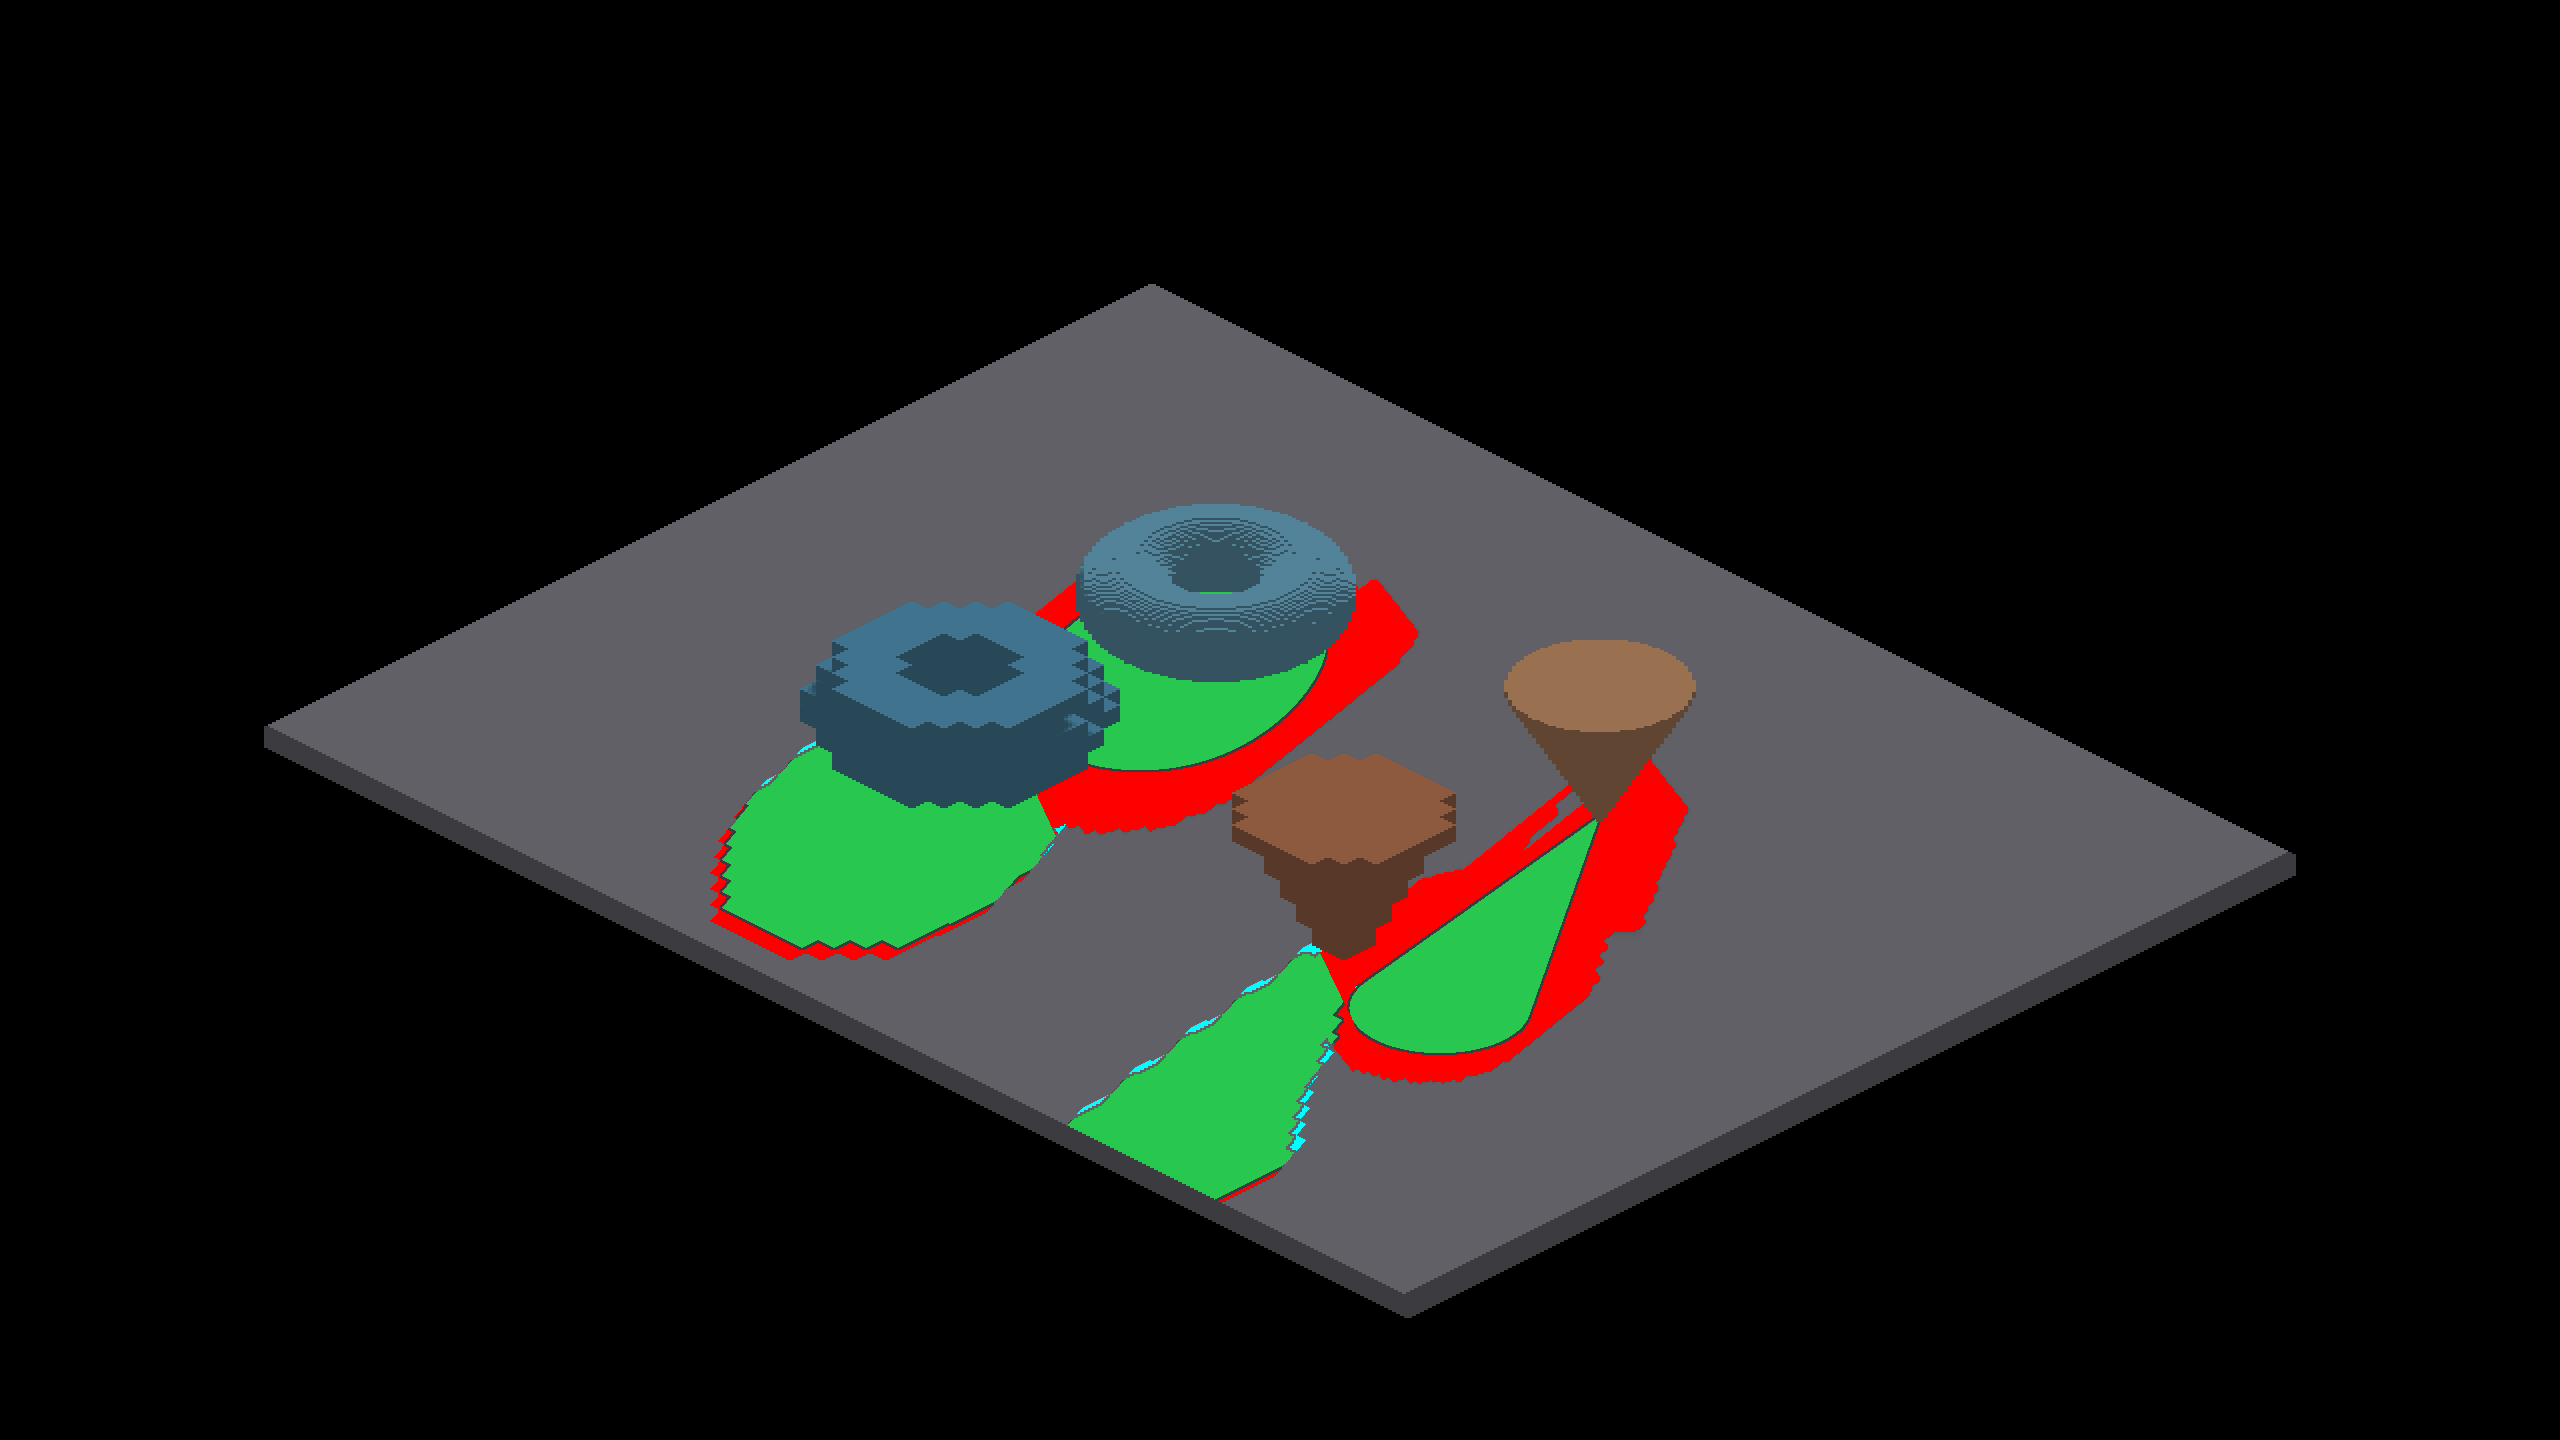
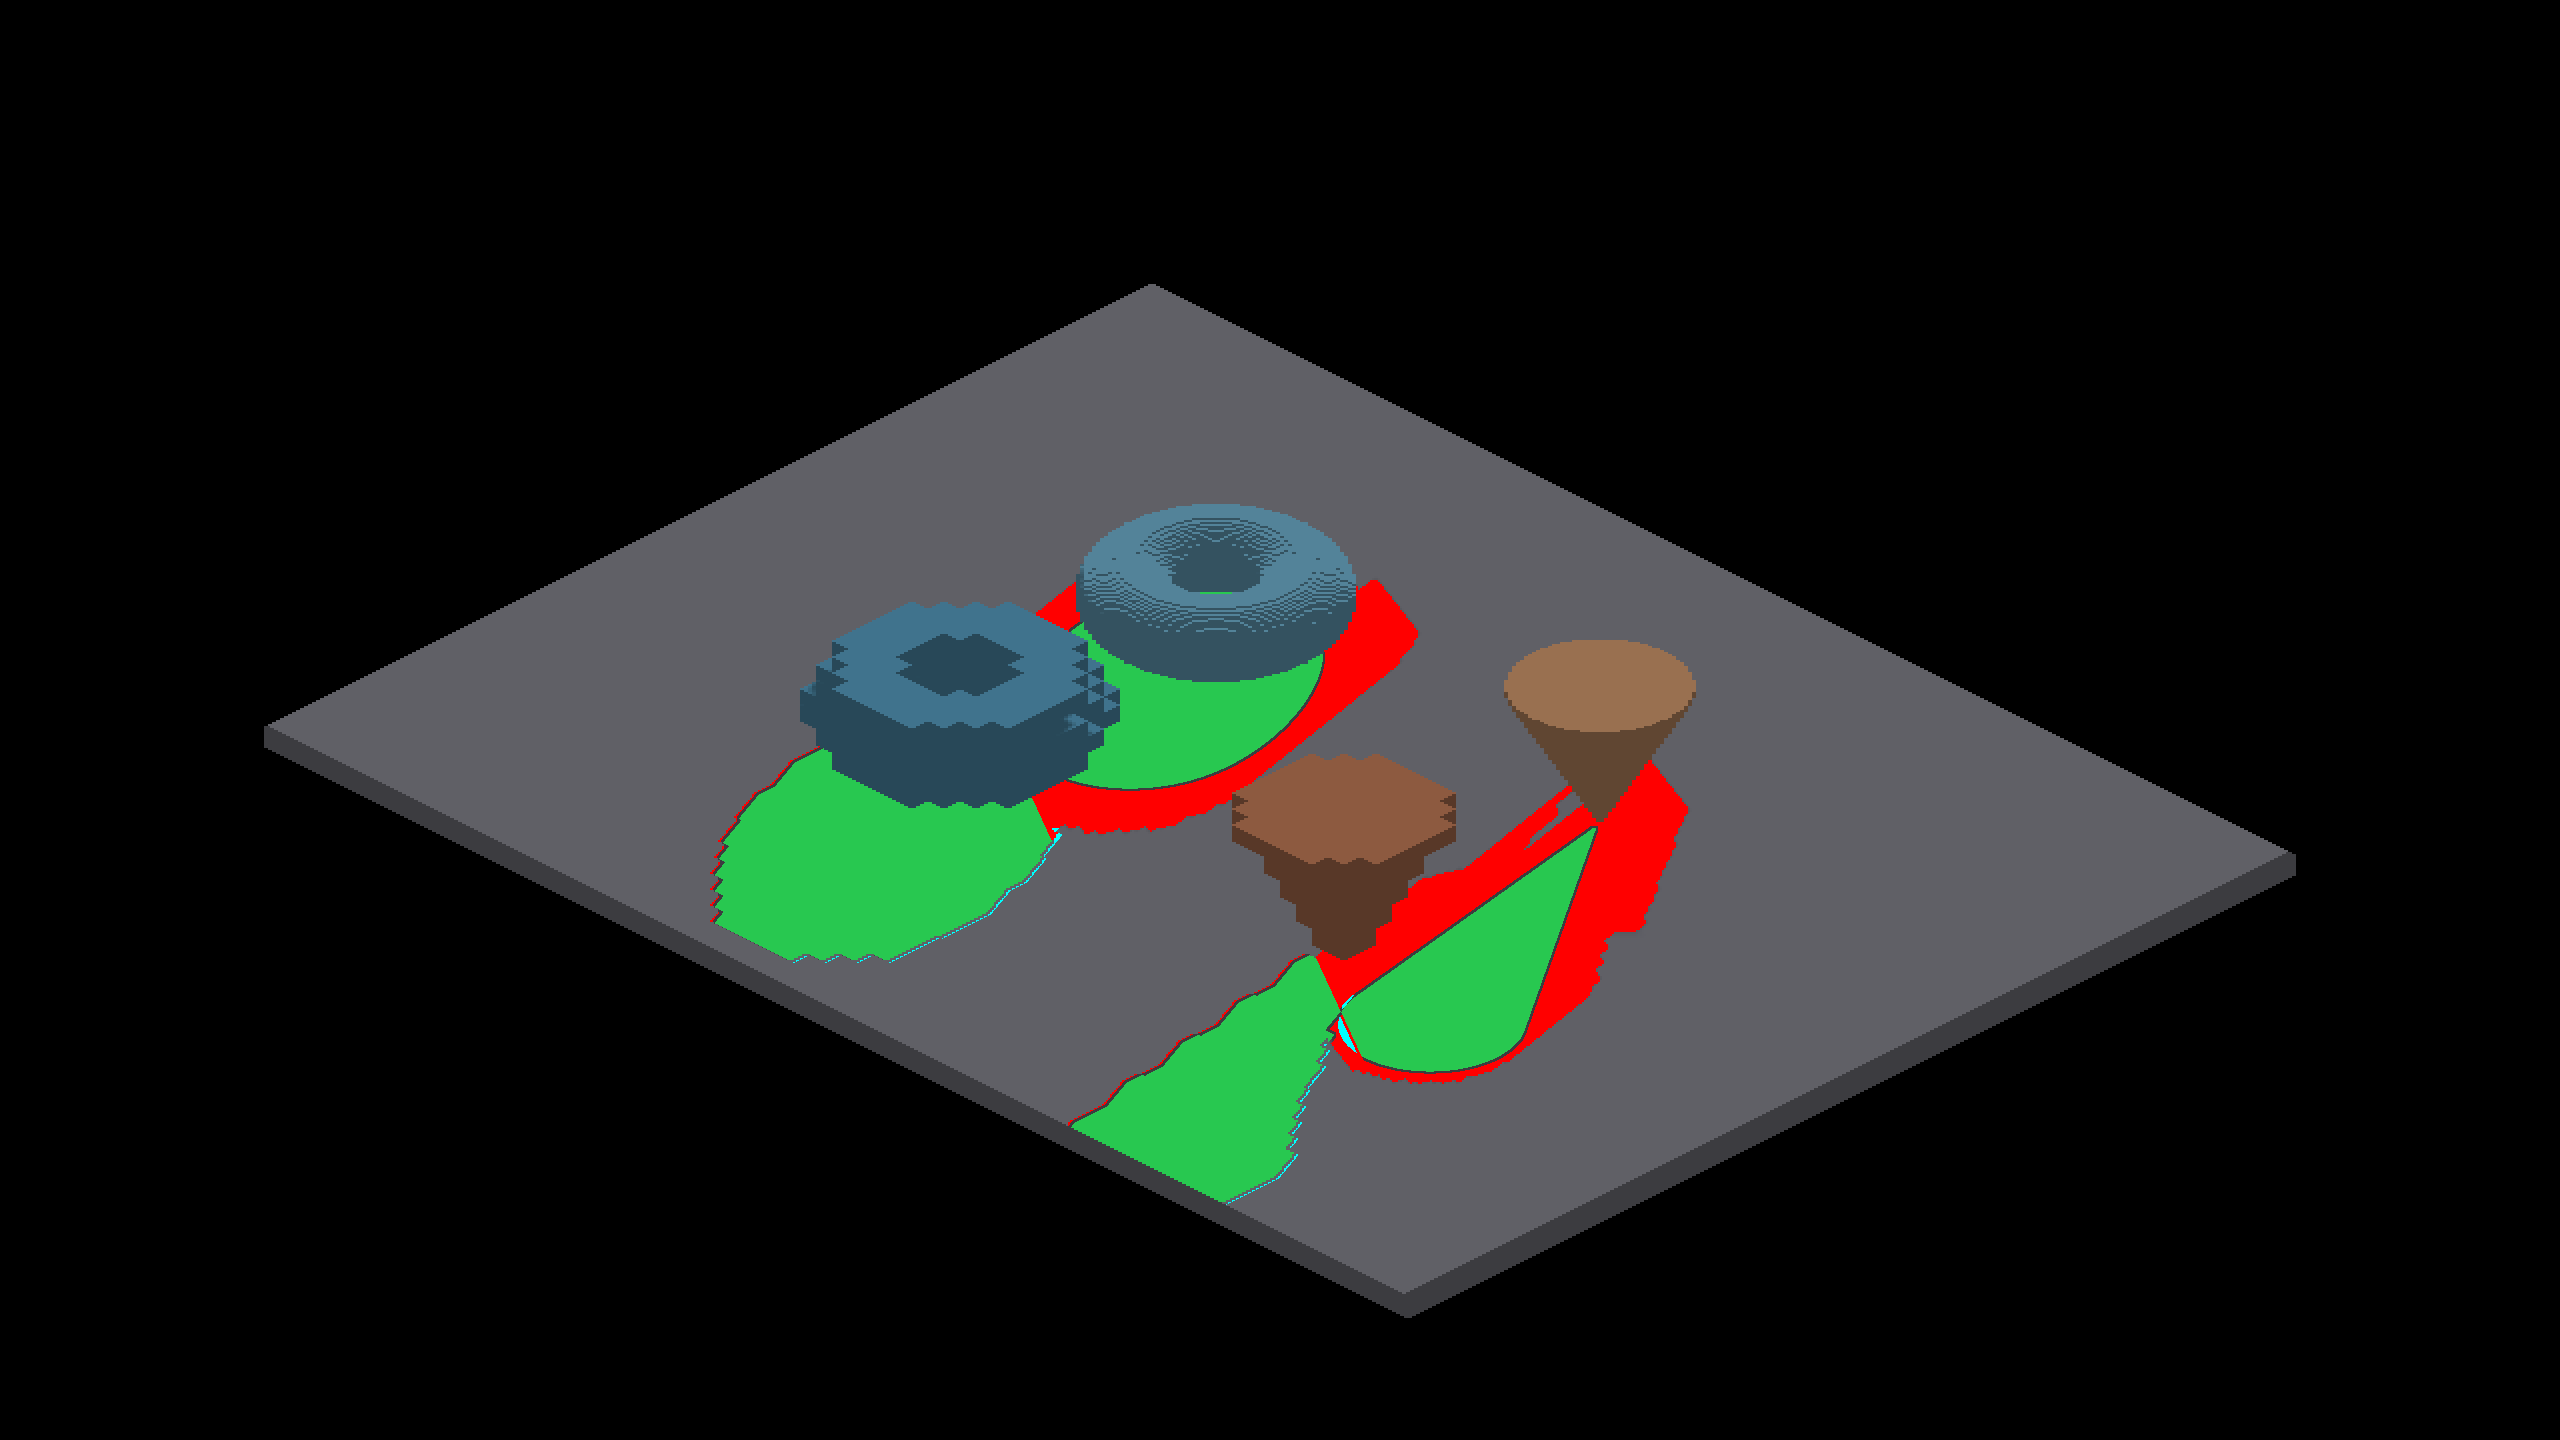
docs: refresh shadow footprint evidence

diff --git a/docs/pr-screenshots/claude/4274-shadow-footprint-accuracy/README.md b/docs/pr-screenshots/claude/4274-shadow-footprint-accuracy/README.md
@@ -7,14 +7,15 @@ and each fixed camera pose is captured once with sun shadows and once with
 capture, so caster pixels and the background cannot enter the observed mask.
 
 - Source: branch `claude/4274-shadow-footprint-accuracy`, measured fixture revision
-  `ae28cc30731dc8bbbb89d59c9bdf75df4e26f2de`, parent revision
-  `01752d9aabb12245ef4dd87ab4d9aa15049f99c4`
+  `0dc489fa46085a09a9ce61a14765d2ef2ae61173`, parent revision
+  `1eefc4c632e80db9e89c85ec20b52b623230374e`
 - Backend: Metal, Apple M4 Max, macOS 26.5.2 arm64, `macos-debug`
 - Output: 2560x1440 (2x the 1280x720 logical canvas)
 - Lighting: normalized sun `(0.349128, 0.847883, -0.399004)`, receiver top
-  `z=4`, AO disabled
+  `z=4.375`, AO disabled
 - Geometry: 233 occupied cone boxes, 504 occupied torus boxes; analytic
-  expectations come directly from the cone and torus signed-distance fields
+  expectations use the renderer's effective density 4 and its corresponding
+  `SDF <= 0.125` surface threshold
 
 ## Commands
 
@@ -22,7 +23,8 @@ capture, so caster pixels and the background cannot enter the observed mask.
 fleet-run IRShapeDebug --auto-screenshot 10 --shadow-footprint-probe --no-ao
 fleet-run IRShapeDebug --auto-screenshot 10 --shadow-footprint-probe --no-ao --no-shadows
 python3 scripts/render-shape-shadow-footprint.py <shadowed.png> \
-  --unshadowed <no-shadows.png> --yaw <0-or-pi-over-4> --diagnostic <output.png>
+  --unshadowed <no-shadows.png> --yaw <0-or-pi-over-4> \
+  --effective-subdivisions 4 --diagnostic <output.png>
 python3 scripts/tests/test_render_shape_shadow_footprint.py
 ```
 
@@ -36,37 +38,45 @@ exit=0`. The four captured outputs inherit that clean-exit verdict as follows:
 | yaw 0° | off | `RESULT=CLEAN`, exit 0 |
 | yaw 45° | off | `RESULT=CLEAN`, exit 0 |
 
-The metric uses exact ray/AABB intersections for every occupied voxel box and
-independently samples the analytic surface along the sun ray. Tolerance is two
+The fixture log derives the receiver from its rendered BOX contract at capture
+time: center `z=5`, size `z=2`, effective subdivisions 4, top `z=4.375`.
+The metric uses that plane, exact ray/AABB intersections for every occupied
+voxel box, and the renderer's density-scaled analytic representation threshold
+(`0.5 / 4 = 0.125`) for both ray hits and conservative bounds. Tolerance is two
 pixels; a shape passes when both missing and excess ratios are at most 15%.
 
 | Pose | Caster | Expected px | Observed px | Missing | Excess | Result |
 | --- | --- | ---: | ---: | ---: | ---: | --- |
-| yaw 0° | cone voxel | 35,917 | 34,733 | 5.75% | 4.64% | pass |
-| yaw 0° | cone SDF | 25,696 | 58,719 | 0.00% | 53.01% | fail |
-| yaw 0° | torus voxel | 43,739 | 46,743 | 2.70% | 6.93% | pass |
-| yaw 0° | torus SDF | 16,184 | 38,769 | 0.00% | 56.22% | fail |
-| yaw 45° | cone voxel | 36,070 | 31,202 | 12.71% | 1.11% | pass |
-| yaw 45° | cone SDF | 20,260 | 23,874 | 8.41% | 20.79% | fail |
-| yaw 45° | torus voxel | 44,563 | 47,892 | 1.46% | 6.94% | pass |
-| yaw 45° | torus SDF | 7,568 | 6,352 | 26.04% | 12.96% | fail |
+| yaw 0° | cone voxel | 33,740 | 33,833 | 4.11% | 3.91% | pass |
+| yaw 0° | cone SDF | 27,673 | 59,619 | 0.78% | 51.01% | fail |
+| yaw 0° | torus voxel | 47,771 | 46,478 | 2.86% | 0.63% | pass |
+| yaw 0° | torus SDF | 19,713 | 39,034 | 0.00% | 47.32% | fail |
+| yaw 45° | cone voxel | 33,192 | 30,645 | 8.23% | 0.70% | pass |
+| yaw 45° | cone SDF | 22,866 | 24,431 | 8.29% | 16.14% | fail |
+| yaw 45° | torus voxel | 48,403 | 47,714 | 0.73% | 0.31% | pass |
+| yaw 45° | torus SDF | 9,121 | 6,530 | 24.92% | 5.21% | fail |
 
-Every expected region is nonempty. The test suite also substitutes 1.35x and
-0.65x geometry: each shape at both yaws exceeds the same 15% gate, proving the
-oracle rejects deliberately wrong-sized controls.
+Every expected region is nonempty. The focused suite pins the density-derived
+receiver plane and the nonzero analytic boundary, including a torus point with
+positive zero-level SDF that the renderer includes at density 4. It also
+substitutes 1.35x and 0.65x geometry: each shape at both yaws exceeds the same
+15% gate, and the nominal/wrong-size PNG pair returns 0/1 through the CLI.
 
 ## Classification
 
 The voxel casters pass at both cardinal and non-cardinal yaw while the SDF
-casters fail on the same receiver and filter. That paired control localizes the
-discrepancy to the analytic caster path rather than the common receiver or
-filter.
+casters fail. This remains unresolved rather than excluding the common receiver
+or filter: the representations have different silhouettes, the observed masks
+overlap, and the 15% voxel pass gate is not an identity proof. The corrected
+oracle now treats the renderer's density-expanded analytic surface as an
+intended representation difference instead of silently counting it as caster
+error.
 
-At yaw 0°, the 53.01% cone excess and 56.22% torus excess overlap the
+At yaw 0°, the 51.01% cone excess and 47.32% torus excess overlap the
 exact-cardinal analytic-caster continuity defect owned by #4193 / PR #4258.
 Those numbers are evidence for that active task, not a second continuity fix;
 the residual footprint must be measured again after #4193 lands. At yaw 45°,
-the cone has 20.79% excess while the torus has 26.04% missing coverage, so the
+the cone has 16.14% excess while the torus has 24.92% missing coverage, so the
 non-cardinal result is unresolved rather than one shared geometry failure. The
 next probe is to capture each analytic caster alone at yaw 45° and measure it
 in an isolated ROI, removing cross-caster attribution before comparing its
@@ -74,10 +84,10 @@ projected SDF surface with the observed shadow.
 
 Observed shadow pixels are currently assigned to the nearest expected centroid.
 The yaw-0 shadows overlap, so SDF excess can be redistributed between shapes;
-the voxel controls remain within 7%, but the per-SDF excess split is not an
-independent attribution. The bounded repair here is the reproducible fixture,
-independent oracle, and explicit next probe. The broader exact-receiver contract
-remains with #4231.
+the voxel controls remain within the 15% gate, but neither that result nor the
+per-SDF split is an independent attribution. The bounded repair here is the
+reproducible fixture, corrected oracle, and explicit next probe. The broader
+exact-receiver contract remains with #4231.
 
 Diagnostic colors are green for agreement, cyan for missing shadow, and red
 for excess shadow.
